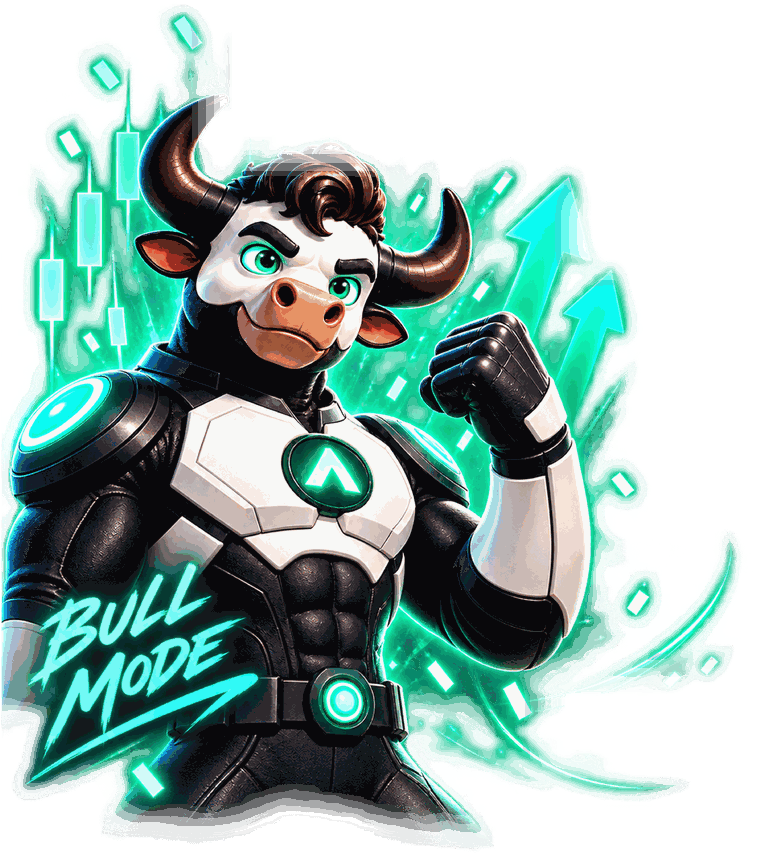
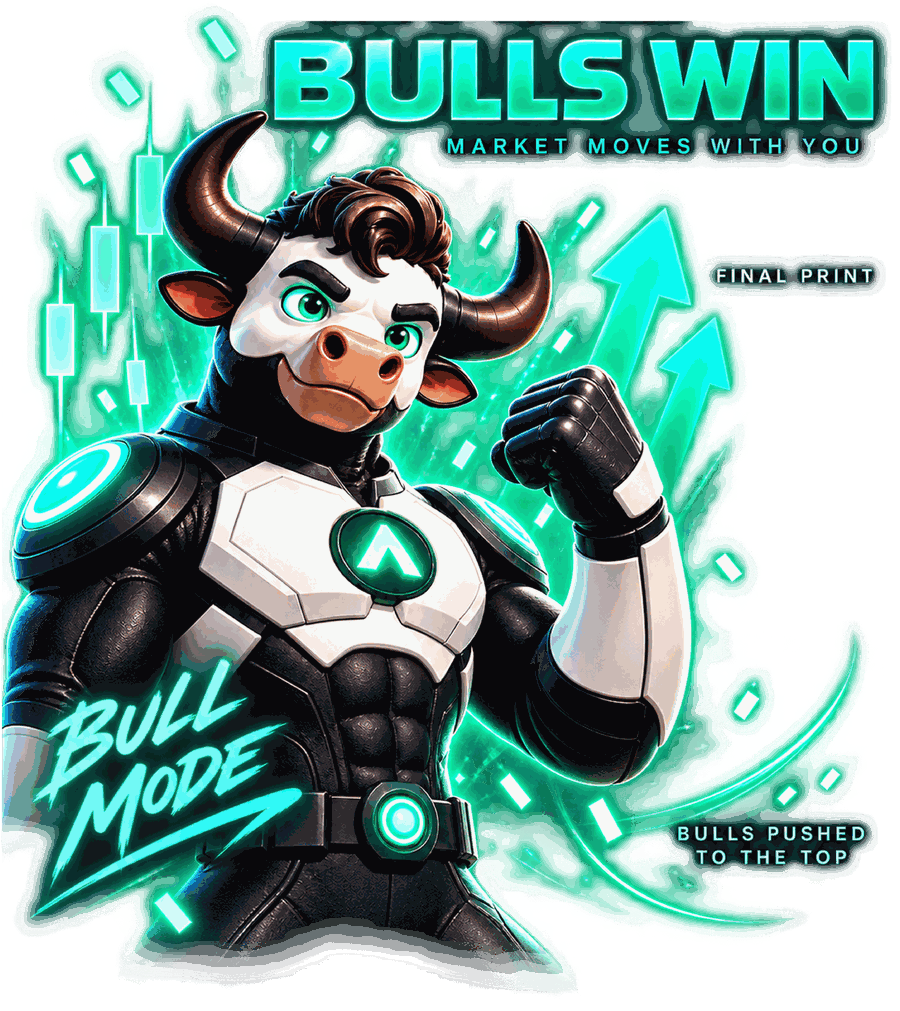
Pointæway: the result art whole, and a draw of its own
Last round's crop is reversed. The character pieces are used as they were
delivered — the headline, the tagline, the FINAL PRINT label and the
caption are part of the art and the app now renders none of them. The
only transparent margin is trimmed, which moves nothing the art draws;
it is what lets the overlay be placed as a fraction of the picture.

What the app adds is the round line above and, on a win, the figure and
the meter — dropped into the hole the art leaves under its own FINAL
PRINT label, with a laurel branch either side of the track as the
reference has them. The hole is measured off the delivered files and
carried per side as percentages of the art, and everything inside it is
sized in fractions of the art's width, so the whole thing scales with
the picture rather than with the screen. The art itself is bounded on
both axes through container units and fills the stage's width on every
size tried.

A draw is a third screen now, with its own piece. It paints its own
headline and its own meter at 0, so it takes no overlay at all — just
the round line, the buttons, and the sign-off. It is 3:2 where the two
win pieces are nearer 9:10, so on a phone it leaves room above and below;
shown whole, as asked.

The chart behind View Match, the picker, and the engine are untouched:
six seeded matches play candle for candle against the run before this.

Claude-Session: https://claude.ai/code/session_01TdySnLZtEvYDfCBTJ6eC9W

diff --git a/css/style.css b/css/style.css
@@ -5778,72 +5778,85 @@ a.pr-link:active { border-color: var(--cyan); filter: brightness(1.25); }
   font-size: calc(10.5px * var(--fs));
   font-weight: 700; letter-spacing: .22em; text-transform: uppercase;
   color: #8FA9C4;
+  margin-bottom: 4px;
 }
-.pw-over-title {
-  font-size: calc(38px * var(--fs));
-  font-weight: 900; letter-spacing: .01em; line-height: 1.02;
-  text-transform: uppercase;
-  color: var(--pw-over-tone);
-  text-shadow: 0 0 18px color-mix(in srgb, var(--pw-over-tone) 55%, transparent);
-  margin: 2px 0 0;
-}
-.pw-over-sub {
-  font-size: calc(10.5px * var(--fs));
-  font-weight: 700; letter-spacing: .2em; text-transform: uppercase;
-  color: #7FD4E8;
-  margin-bottom: 6px;
-}
-/* the scene: the character takes what is left after the print's column, and
-   both are bounded on height so the row cannot push the buttons off screen */
+/* The stage is the room between the round line and the buttons; the art is
+   drawn as large as that room allows without losing an edge. Both axes are
+   bounded through container units — sizing on one alone is the trap every
+   picture in this game has fallen into once. */
 .pw-over-stage {
   flex: 1 1 auto;
+  min-height: 0;
+  container-type: size;
   display: flex;
   align-items: center;
   justify-content: center;
-  gap: 4px;
-  min-height: 0;
-  margin: 2px 0 4px;
 }
-/* The character takes the room the print's column leaves and fills it on both
-   axes — height alone let the wider of the two pieces push past the column,
-   which is the same trap the cards and the seats fell into. */
 .pw-over-art {
-  flex: 1 1 64%;
-  min-width: 0;
-  width: 100%;
-  height: 100%;
-  object-fit: contain;
-  object-position: center center;
+  position: relative;
+  aspect-ratio: var(--ar);
+  width: min(100cqw, 100cqh * var(--ar));
+  max-width: 100%;
+  max-height: 100%;
+  /* the overlay measures itself against this box, so it must be the art's
+     box exactly — which it is, since the image fills it edge to edge */
+  container-type: size;
 }
-.pw-over-stat {
-  flex: 0 0 34%;
-  min-width: 0;
+.pw-over-art > img { display: block; width: 100%; height: 100%; }
+/* The hole the art leaves under its FINAL PRINT label, and what goes in it:
+   the figure at the top, the meter filling the rest, the two branches beside
+   it. Every size in here is a fraction of the art's width, so the whole
+   thing scales with the picture rather than with the screen. */
+.pw-over-slot {
+  position: absolute;
   display: flex;
   flex-direction: column;
   align-items: center;
-  justify-content: center;
-  gap: 2px;
+  justify-content: flex-start;
 }
-/* a draw: the meter is the whole stage, so it takes the middle and grows */
-.pw-over-stage.solo .pw-over-stat { flex: 0 0 auto; }
-.pw-over-stage.solo .pw-track { width: 48px; }
-.pw-over-stage.solo .pw-over-caption { max-width: 190px; }
-.pw-over-stat-cap {
-  font-size: calc(9.5px * var(--fs));
-  font-weight: 700; letter-spacing: .16em; text-transform: uppercase;
-  color: #9FC0E0;
+.pw-over-slot .pw-track-panel {
+  flex: 1 1 auto;
+  min-height: 0;
+  width: 100%;
+  gap: 0.6cqw;
 }
-/* the same meter the match was played on, at the size a headline figure wants */
-.pw-over .pw-track-val { font-size: calc(34px * var(--fs)); }
-.pw-over .pw-track { width: 40px; height: clamp(96px, 16vh, 150px); }
-.pw-over-caption {
-  max-width: 108px;
-  font-size: calc(9.5px * var(--fs));
-  font-weight: 700; letter-spacing: .1em; text-transform: uppercase;
-  line-height: 1.35;
-  color: #7FD4E8;
-  margin-top: 4px;
+.pw-over-slot .pw-track-val {
+  font-size: 8.2cqw;
+  font-weight: 900;
+  line-height: 1;
+  text-shadow: 0 0 14px color-mix(in srgb, currentColor 70%, transparent);
 }
+.pw-over-slot .pw-track-row {
+  flex: 1 1 auto;
+  min-height: 0;
+  width: 100%;
+  gap: 0.5cqw;
+}
+.pw-over-slot .pw-track-end { font-size: 2.2cqw; letter-spacing: .06em; color: #C9DDF2; }
+.pw-over-slot .pw-track {
+  flex: 1 1 auto;
+  min-height: 0;
+  height: auto;
+  width: 9.5cqw;
+  border-radius: 2.4cqw;
+  background-size: 1.8cqw 2.6cqw;
+  border-color: rgba(143,169,196,.55);
+}
+.pw-over-slot .pw-track-mid { font-size: 1.7cqw; }
+.pw-over-slot .pw-track-fill { left: 0.9cqw; right: 0.9cqw; border-radius: 1cqw; }
+.pw-laurel {
+  position: absolute;
+  top: 40%;
+  width: 6.4cqw;
+  height: 21cqw;
+  color: var(--pw-over-tone);
+  opacity: .85;
+  filter: drop-shadow(0 0 4px color-mix(in srgb, var(--pw-over-tone) 60%, transparent));
+}
+.pw-laurel svg { width: 100%; height: 100%; display: block; }
+.pw-laurel.l { left: 6%; }
+.pw-laurel.r { right: 6%; transform: scaleX(-1); }
+
 /* Play Again is the one thing this screen wants you to do, so it carries the
    wide pill; the two below it share the row and the smaller one. Both are the
    pill the app already draws everywhere — no new art for this screen. */

diff --git a/js/app.js b/js/app.js
@@ -4004,43 +4004,49 @@
      every match and a picture cannot. What is left on the art is the scene
      and the BULL MODE / BEAR MODE wordmark, which nothing here repeats. */
 
-  const PW_OVER_ART = { bull: "bull-wins", bear: "bear-wins" };
+  /* Each finished piece, whole and as delivered: the headline, the tagline,
+     the FINAL PRINT label and the caption are all in the pixels, and the app
+     renders none of them. What it adds is the round line above, and — on a
+     win — the figure and the meter, dropped into the hole the art leaves under
+     its own FINAL PRINT label. `slot` is that hole as percentages of the art,
+     measured off the delivered files; the draw piece paints its own meter at
+     0, so it has no slot and takes no overlay. `w`/`h` are the files' own
+     proportions, which is how the slot stays on the art at any size. */
+  const PW_OVER_ART = {
+    bull: { file: "bull-wins", w: 900, h: 1011, slot: { l: 75.5, t: 30.0, w: 24.5, h: 49.5 } },
+    bear: { file: "bear-wins", w: 900, h: 1049, slot: { l: 75.5, t: 29.5, w: 24.5, h: 48.5 } },
+    draw: { file: "draw",      w: 900, h: 596,  slot: null },
+  };
 
-  /* A match ends two ways, and the caption has to tell the truth about which.
-     Reaching the target IS pushing the print to the top or the bottom; running
-     the decks out while ahead is holding it there, which is a different thing
-     and reads as a lie if it claims the first. */
-  function pwOverCaption() {
-    const c = pw.candle;
-    if (pw.winner === "draw") return "Neither side moved the print";
-    const pushed = Math.abs(c) >= PW_TARGET;
-    if (pw.winner === "bull") return pushed ? "Bulls pushed to the top" : "Bulls held the print up";
-    return pushed ? "Bears pushed to the bottom" : "Bears held the print down";
-  }
+  /* a laurel branch, one side; mirrored for the other with a transform */
+  const PW_LAUREL = `
+    <svg viewBox="0 0 28 90" aria-hidden="true">
+      <path d="M22 4 C6 26 6 64 22 86" fill="none" stroke="currentColor" stroke-width="1.6" stroke-linecap="round"/>
+      ${[12, 26, 40, 54, 68].map((y) => `
+        <ellipse cx="11" cy="${y}" rx="3.2" ry="7" transform="rotate(-38 11 ${y})" fill="currentColor"/>
+        <ellipse cx="20" cy="${y + 7}" rx="3.2" ry="7" transform="rotate(38 20 ${y + 7})" fill="currentColor"/>`).join("")}
+    </svg>`;
 
   function pwOverHTML() {
-    const draw = pw.winner === "draw";
-    const tone = draw ? "flat" : pw.winner;
-    const label = draw ? "Doji — Draw" : pw.winner === "bull" ? "Bulls Win" : "Bears Win";
-    const art = PW_OVER_ART[pw.winner];
+    const tone = pw.winner;                       // bull | bear | draw
+    const art = PW_OVER_ART[tone];
+    const slot = art.slot;
+    const overlay = slot ? `
+          <div class="pw-over-slot"
+               style="left:${slot.l}%;top:${slot.t}%;width:${slot.w}%;height:${slot.h}%">
+            <span class="pw-laurel l">${PW_LAUREL}</span>
+            <span class="pw-laurel r">${PW_LAUREL}</span>
+            ${pwTrackHTML()}
+          </div>` : "";
     return `
       <div class="pw-over ${tone}">
         <div class="pw-over-kicker">Round ${pw.round} · Final Print</div>
-        <div class="pw-over-title">${esc(label)}</div>
-        <div class="pw-over-sub">Market moves with you</div>
 
-        ${/* A draw has no winner and so no character to show it with — the
-              print stands where it opened and nobody pushed it. The stage
-              drops to the meter alone rather than holding a blank column
-              where a figure would be. */""}
         ${pw.showMatch ? pwMatchChartHTML() : `
-        <div class="pw-over-stage${art ? "" : " solo"}">
-          ${art ? `<img class="pw-over-art" src="${PW_RESULT_ART}${art}.png"
-                        alt="" draggable="false">` : ""}
-          <div class="pw-over-stat">
-            <div class="pw-over-stat-cap">Final Print</div>
-            ${pwTrackHTML()}
-            <div class="pw-over-caption">${esc(pwOverCaption())}</div>
+        <div class="pw-over-stage">
+          <div class="pw-over-art" style="--ar:${art.w} / ${art.h}">
+            <img src="${PW_RESULT_ART}${art.file}.png" alt="" draggable="false">
+            ${overlay}
           </div>
         </div>`}
 

diff --git a/sw.js b/sw.js
@@ -3,7 +3,7 @@
  * deploys show up immediately; only falls back to cache when offline.
  * Heavy binary assets (images) are cache-first since they rarely change.
  */
-const CACHE = "learnaeway-v159";
+const CACHE = "learnaeway-v161";
 
 const SHELL = [
   "./",
@@ -127,7 +127,7 @@ const SHELL = [
    would hand every phone install 860KB it can never display.
 
    assets/pointaeway/result/ and selection-banner.jpg follow the cards: the
-   two character pieces are on the screen that ends a match, the banner is on
+   three result pieces are on the screen that ends a match, the banner is on
    the screen that starts one, and cache-first keeps each from the first time
    it is shown. Nobody who never opens Gameæway pays for any of them. */
 
